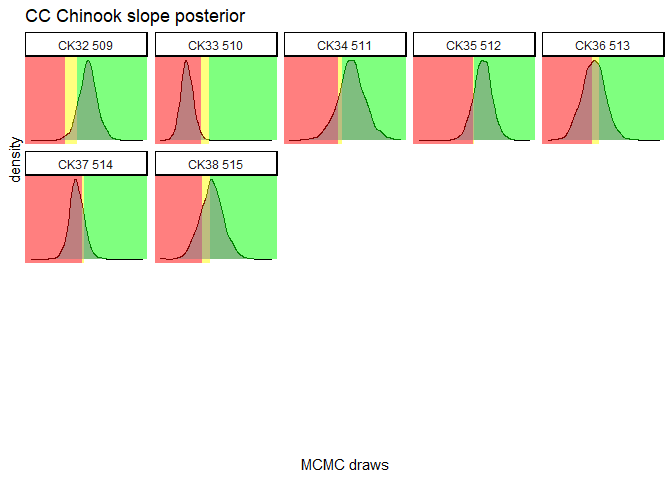
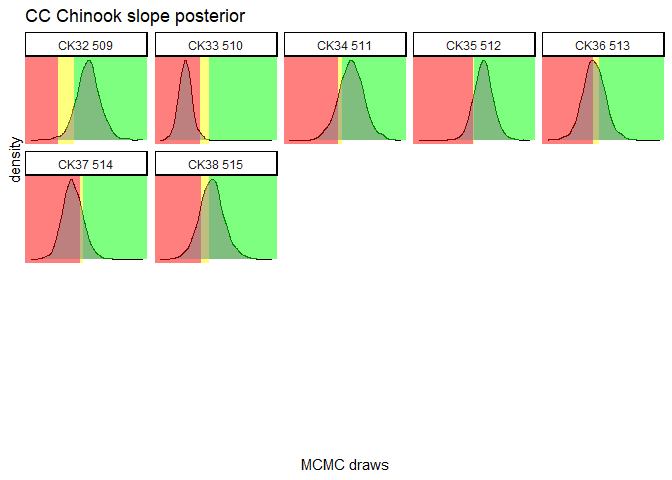
changed the math for calculating slope in the basic lms so they accounted for the number of data points (thus different gen lengths). The old code assumed all fish matured at age 5!

diff --git a/prioritize.md b/prioritize.md
@@ -62,17 +62,12 @@ last3_gens <- sp_data %>%
 
 We’ll make 2 plots for each species and region: raw spawner abundance
 and ln-transformed spawner abundance with a linear regression passing
-through all data points (black) and the last 3 generations (red). **Note
-that that the y axis varies for ease of viewing**.  
+through all data points (black dashed line) and the last 3 generations
+(red). **Note that that the y axis varies for ease of viewing**.  
 This code is cumbersome in order to make it robust, so we’ve omitted it
-from the knit, but it’s worth noting you can adjust facets, and these
-options cascade into the posterior plots as well.
-
-``` r
-max_facets <- 20 #how many facets (i.e. panes) per plot?
-rows <- 4 #how many rows/cols? note needs to be multiple of facets. 
-cols <- 5
-```
+from this document. See the [.Rmd
+document](https://github.com/Pacific-salmon-assess/COSEWIC-prioritize/blob/main/prioritize.Rmd)
+for details.
 
 ![](output/plots/abundance%20plots-1.png)<!-- -->![](output/plots/abundance%20plots-2.png)<!-- -->![](output/plots/abundance%20plots-3.png)<!-- -->![](output/plots/abundance%20plots-4.png)<!-- -->![](output/plots/abundance%20plots-5.png)<!-- -->![](output/plots/abundance%20plots-6.png)<!-- -->![](output/plots/abundance%20plots-7.png)<!-- -->![](output/plots/abundance%20plots-8.png)<!-- -->![](output/plots/abundance%20plots-9.png)<!-- -->![](output/plots/abundance%20plots-10.png)<!-- -->![](output/plots/abundance%20plots-11.png)<!-- -->![](output/plots/abundance%20plots-12.png)<!-- -->![](output/plots/abundance%20plots-13.png)<!-- -->![](output/plots/abundance%20plots-14.png)<!-- -->![](output/plots/abundance%20plots-15.png)<!-- -->![](output/plots/abundance%20plots-16.png)<!-- -->![](output/plots/abundance%20plots-17.png)<!-- -->![](output/plots/abundance%20plots-18.png)<!-- -->![](output/plots/abundance%20plots-19.png)<!-- -->![](output/plots/abundance%20plots-20.png)<!-- -->![](output/plots/abundance%20plots-21.png)<!-- -->![](output/plots/abundance%20plots-22.png)<!-- -->![](output/plots/abundance%20plots-23.png)<!-- -->![](output/plots/abundance%20plots-24.png)<!-- -->![](output/plots/abundance%20plots-25.png)<!-- -->![](output/plots/abundance%20plots-26.png)<!-- -->![](output/plots/abundance%20plots-27.png)<!-- -->![](output/plots/abundance%20plots-28.png)<!-- -->![](output/plots/abundance%20plots-29.png)<!-- -->![](output/plots/abundance%20plots-30.png)<!-- -->
 
@@ -80,9 +75,9 @@ cols <- 5
 
 #### Which populations are data deficient?
 
-Define a threshold of acceptable data coverage then check the get a list
-of DUs that don’t meet this threshold and filter them out of data that
-will be used in the lms.  
+Define a threshold of acceptable data coverage then get a list of DUs
+that don’t meet this threshold and filter them out of data that will be
+used in the population decline models.  
 First we’ll do this for the recent data.
 
 ``` r
@@ -116,14 +111,14 @@ deficient_historical <- sp_data %>%
 sp_data_filtered <- filter(sp_data, !(du_cu %in% deficient_historical))
 ```
 
-*we could add to this by making it specific to gen_length* (e.g. 3
-missing data points from a short lived pop may have more of an impact on
-our inference than 3 NAs in longer lived pops…) ## Population decline
-### Basic linear models Now we’ll run basic linear models on ln(spawner
-abundances) for the whole time series and for the last 3 generations. We
-need to add some if statements in this loop to account for which du_cus
-made it through the data filters above.  
-**I’m open to clever suggestions to avoid these if else statements!**
+## Population decline
+
+### Basic linear models
+
+Now we’ll run basic linear models on ln(spawner abundances) for the
+whole time series and for the last 3 generations. We need to add some if
+statements in this loop to account for which du_cus made it through the
+data filters above.
 
 ``` r
 summary_table <- NULL
@@ -140,8 +135,8 @@ for(i in unique(sp_data_filtered$du_cu)){
     } else{
       model_all <- lm(sub_data$logSp~sub_data$Year)
       model_recent <- lm(sub_last3$logSp~sub_last3$Year)
-      slope_all <- round(as.numeric((exp(model_all$coefficients[2]*15)-1)*100))
-      slope_recent <- round(as.numeric((exp(model_recent$coefficients[2]*15)-1)*100))
+      slope_all <- round(as.numeric((exp(model_all$coefficients[2]*nrow(sub_data))-1)*100))
+      slope_recent <- round(as.numeric((exp(model_recent$coefficients[2]*nrow(sub_last3))-1)*100))
     }
   }
   recent_abundance <- last(sub_raw$Spawner.Abundance)
@@ -156,20 +151,21 @@ head(summary_table)
 ```
 
     ##       du_cu slope_recent slope_all recent_abundance last_year_monitored
-    ## 1 SER42 426          613       146            14563                2017
-    ## 2 SER41 216           99       133               91                2017
-    ## 3 SER24 745          -19        54            49364                2017
-    ## 4 SER23 742          114       -28              472                2016
-    ## 5   SE9 713          -46       123             6650                2016
-    ## 6   SE8 727          332       111             2128                2017
+    ## 1 SER42 426          382       507            14563                2017
+    ## 2 SER41 216           73       120               91                2017
+    ## 3 SER24 745          -16       603            49364                2017
+    ## 4 SER23 742           74       -76              472                2016
+    ## 5   SE9 713          -39      2946             6650                2016
+    ## 6   SE8 727          223       841             2128                2017
 
-### Estimates with the MetricsCOSEWIC package
+### Bayesian estimates with the MetricsCOSEWIC package
 
 First some housekeeping. You can use devtools to download the
 [MetricsCOSEWIC package](https://github.com/SOLV-Code/MetricsCOSEWIC)
 from GitHub. We’ll wrangle the data into the format this package wants
-as well. We’ll feed it the filtered last 3 generations. **note these are
-preliminary, and the MetricsCOSEWIC package is still in development**
+as well. We’ll feed it the filtered last 3 generations.  
+**note these are preliminary as the MetricsCOSEWIC package is still in
+development**  
 *Still need to make sure I did this right. The README says the first
 argument to calcPercChangeMCMC() is a “vector with numeric values” so
 I’ll assume that is spawner abundance with NAs omitted?*
@@ -177,13 +173,13 @@ I’ll assume that is spawner abundance with NAs omitted?*
 ``` r
 library(MetricsCOSEWIC)
 slope_posterior <- NULL
-stan_summary <- NULL
+jags_summary <- NULL
 
 for(i in unique(last3_gens_filtered$du_cu)){
   sub_data <- filter(last3_gens_filtered, du_cu == i)
-  stan_mod <- calcPercChangeMCMC(sub_data$Spawner.Abundance, method="jags", out.type="long") 
+  jags_mod <- calcPercChangeMCMC(sub_data$Spawner.Abundance, method="jags", out.type="long") 
   
-  summary <- data.frame(stan_mod$summary) %>%
+  summary <- data.frame(jags_mod$summary) %>%
     slice(1:3) %>%
     select(mean, sd, X2.5., X50., X97.5., n.eff, Rhat) %>%
     rename(perc_2.5 = X2.5., 
@@ -197,14 +193,14 @@ for(i in unique(last3_gens_filtered$du_cu)){
   rownames(summary) <- NULL #rownames to columns - probably a better way
   summary$var <- c("intercept", "slope", "sigma")
 
-  stan_summary <- bind_rows(summary, stan_summary)
+  jags_summary <- bind_rows(summary, jags_summary)
 
   slope_posterior <- bind_rows(data.frame(du_cu =i, region = unique(sub_data$Region),
                                           species = unique(sub_data$Species),
-                                          draw = stan_mod$samples$slope), slope_posterior)
+                                          draw = jags_mod$samples$slope), slope_posterior)
 }
 
-stan_summary <- relocate(stan_summary, var, .before = mean)
+jags_summary <- relocate(jags_summary, var, .before = mean)
 ```
 
 We’ll also create an object that summarizes how many draws are in each
@@ -212,8 +208,9 @@ category. This will be a go-to summary table for COSEWIC thresholds for
 population decline based on [category
 A2](https://www.canada.ca/en/environment-climate-change/services/species-risk-act-accord-funding/listing-process/quantitative-criteria-guidelines-status-table-2.html),
 where 50 and 30 percent reductions correspond to endangered and
-threatened status, respectively; we’ll use 30, 50, and 70 % reductions
-as thresholds for least concern, threatened, and endangered for now.
+threatened status, respectively. we’ll use 30, 50, and 70 % reductions
+as thresholds for least concern, threatened, and endangered for now.  
+**these categories could be revisited**
 
 ``` r
 perc_category <- slope_posterior %>%
@@ -229,21 +226,24 @@ head(perc_category)
     ## # Groups:   species, region [1]
     ##   species region du_cu    not_at_risk least_concern threatened endangered
     ##   <chr>   <chr>  <chr>          <dbl>         <dbl>      <dbl>      <dbl>
-    ## 1 Chinook CC     CK32 509        87.0          9.17       2.43       1.37
-    ## 2 Chinook CC     CK33 510         0            0.2        1.23      98.6 
-    ## 3 Chinook CC     CK34 511        76.4          4          3.57      16   
-    ## 4 Chinook CC     CK35 512        83.2          0.63       0.8       15.4 
-    ## 5 Chinook CC     CK36 513        32.7         10         10.6       46.6 
-    ## 6 Chinook CC     CK37 514        13.9          4.87       4.9       76.4
+    ## 1 Chinook CC     CK32 509       87.8           8.73       2.13       1.37
+    ## 2 Chinook CC     CK33 510        0.07          0.2        1.4       98.3 
+    ## 3 Chinook CC     CK34 511       75.7           4.93       3.6       15.8 
+    ## 4 Chinook CC     CK35 512       84.2           0.77       0.5       14.6 
+    ## 5 Chinook CC     CK36 513       31.9          10         10.9       47.2 
+    ## 6 Chinook CC     CK37 514       13.8           4.33       5.17      76.7
+
+And we can arrange this table to see which populations are in the
+roughest shape.
 
 ### Plot slope posterior distributions
 
 These distributions show the probability (i.e. each markov chain monte
-carlo draw) that the slope of the last 3 generations, which is like the
-red line in the figures above. The distribution is plotted over the
-decline categories specified above. It’s essentially a visualization of
-the perc_category dataframe.  
+carlo draw) that the slope of the last 3 generations is in of the
+categories listed above. The distribution is plotted over the decline
+categories specified above. It’s essentially a visualization of the
+perc_category dataframe.  
 The amount of the distribution in the green region means the population
 is experiencing less than 30% declines, the red region says the
-population is declining by 70% or more, and yellow is intermediate.
+population is declining by 70% or more, and yellow is intermediate.  
 ![](output/plots/slope%20posteriors-1.png)<!-- -->![](output/plots/slope%20posteriors-2.png)<!-- -->![](output/plots/slope%20posteriors-3.png)<!-- -->![](output/plots/slope%20posteriors-4.png)<!-- -->![](output/plots/slope%20posteriors-5.png)<!-- -->![](output/plots/slope%20posteriors-6.png)<!-- -->![](output/plots/slope%20posteriors-7.png)<!-- -->![](output/plots/slope%20posteriors-8.png)<!-- -->![](output/plots/slope%20posteriors-9.png)<!-- -->![](output/plots/slope%20posteriors-10.png)<!-- -->![](output/plots/slope%20posteriors-11.png)<!-- -->![](output/plots/slope%20posteriors-12.png)<!-- -->![](output/plots/slope%20posteriors-13.png)<!-- -->![](output/plots/slope%20posteriors-14.png)<!-- -->![](output/plots/slope%20posteriors-15.png)<!-- -->
